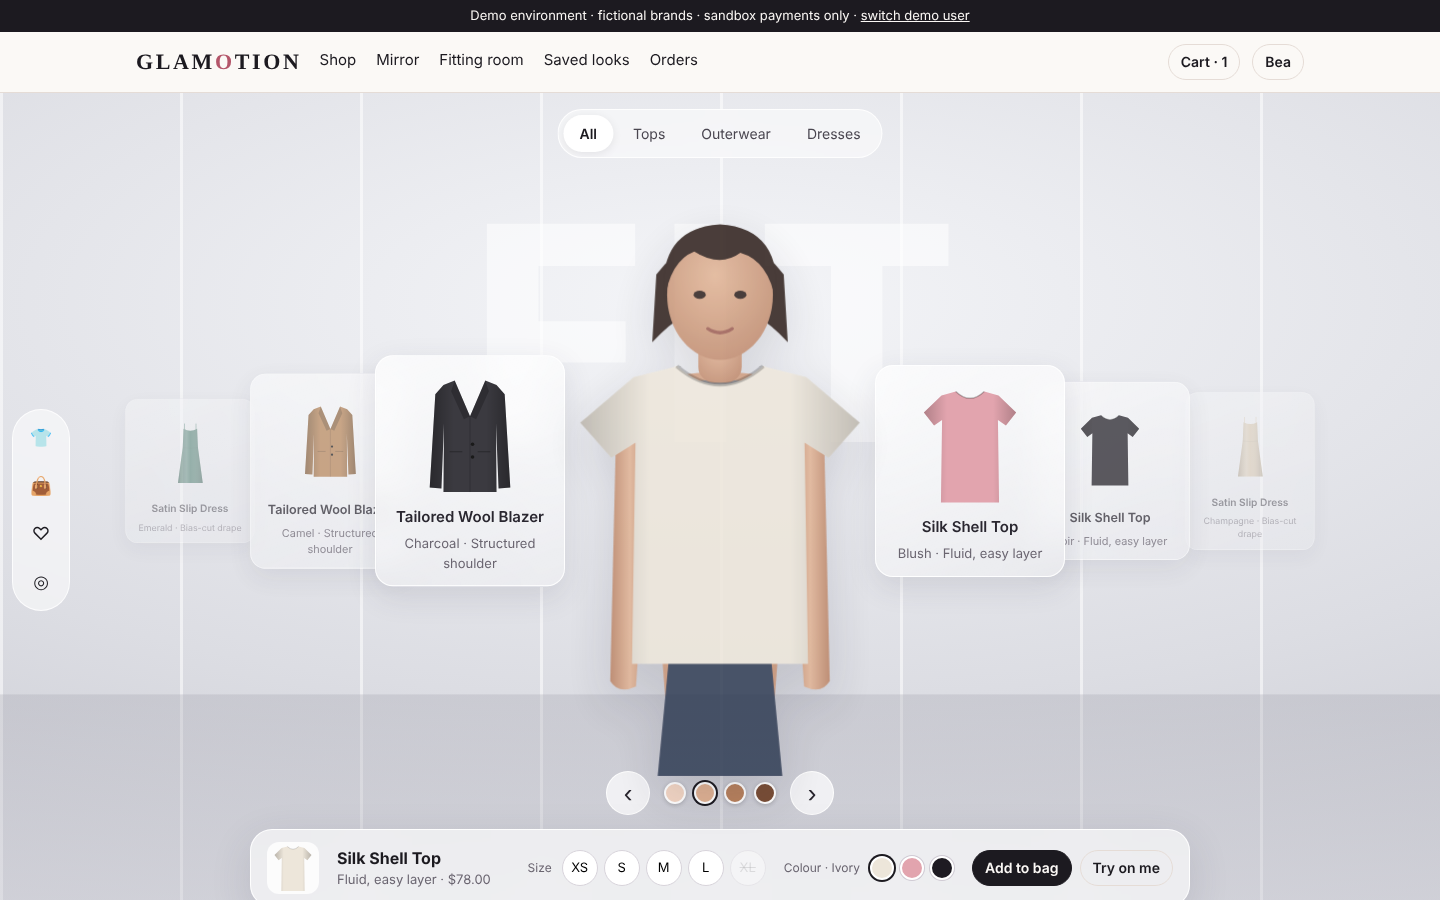
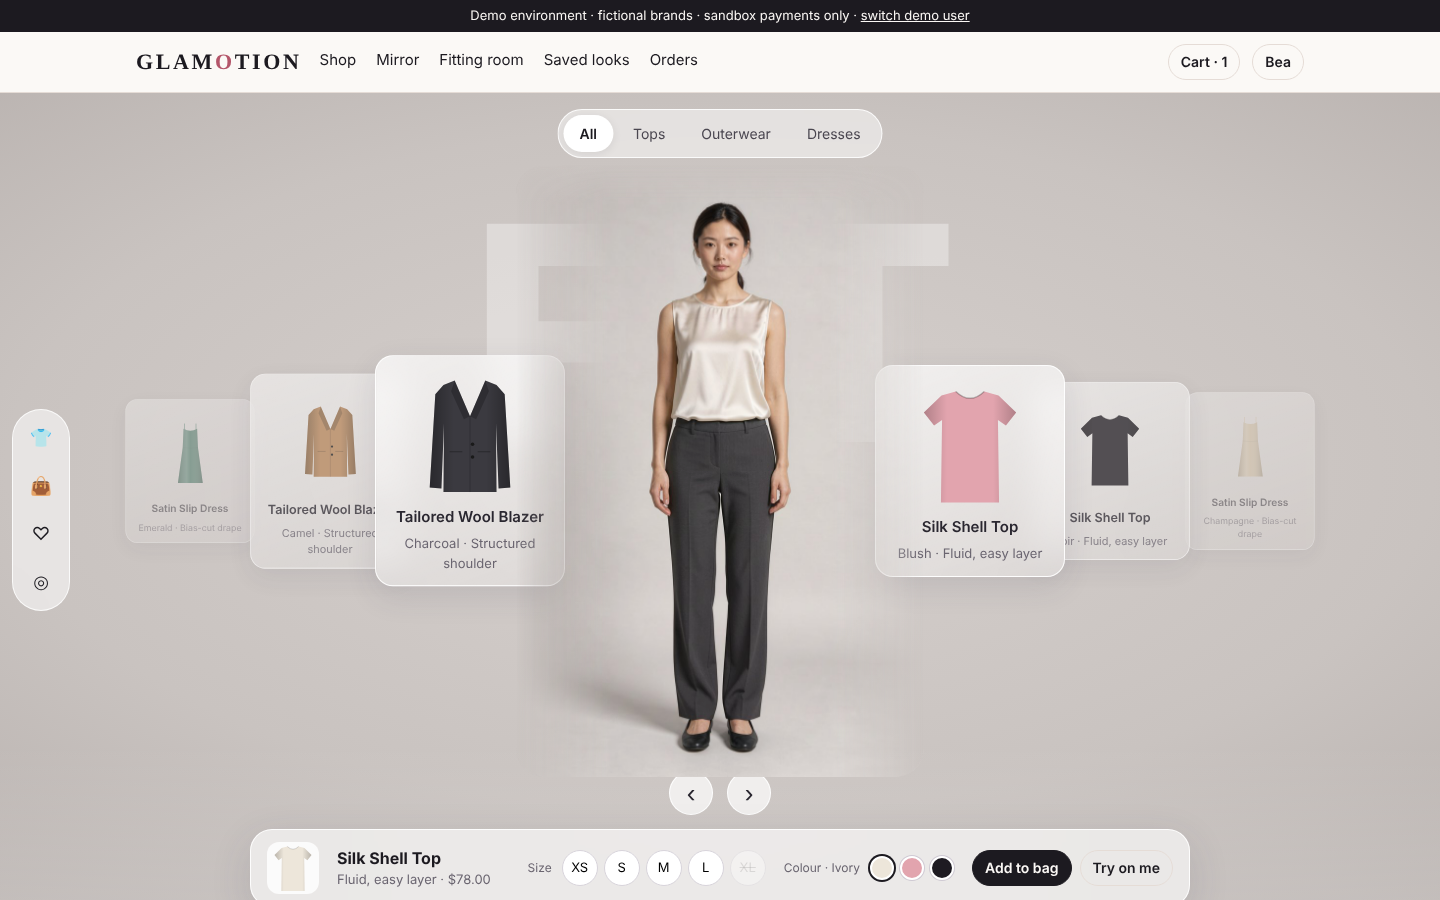
Fitting room: photographed model instead of illustrated figure
- Five AI-generated on-model photos of one fictional adult model
  (Higgsfield FLUX 3, identity-consistent via reference image); provenance
  recorded in public/models/lumiere-model-a/PROVENANCE.md
- pickOnModelPhoto(): exact outfit match, otherwise closest photo with a
  visible note (never a silent substitute); unit tested
- Room backdrop matched to the studio photography; skin-tone picker removed
- ADR-011; backlog AP-009/AP-010 updated; E2E asserts the shown photo

Claude-Session: https://claude.ai/code/session_016XAkFesfbQee2aGxaDXSHt

diff --git a/apps/web/src/components/FittingRoom.tsx b/apps/web/src/components/FittingRoom.tsx
@@ -3,7 +3,8 @@ import { useEffect, useMemo, useState } from "react";
 import Link from "next/link";
 import { compareSizes, type ApparelCategory } from "@glamotion/contracts";
 import { BUILTIN_ASSETS, GARMENT_ASSET } from "@glamotion/motion";
-import { outfitSvg, SKIN_TONES, type SkinTone } from "@glamotion/tryon";
+import { pickOnModelPhoto } from "@glamotion/tryon";
+import { MODEL_CREDIT, ON_MODEL_PHOTOS } from "./onModelPhotos";
 import type { GarmentProduct } from "./ApparelStudio";
 import { apiFetch, money } from "./client";
 
@@ -20,9 +21,10 @@ function thumb(category: ApparelCategory, hex: string, size = 110) {
 }
 
 /**
- * Spatial fitting room: the illustrated figure wears the selected outfit while
- * garment cards orbit left and right. Uses the same anchor-based fit as the
- * camera mirror; "Try on me" hands the selection to the on-device mirror.
+ * Spatial fitting room: a photographed model wears the selected outfit while
+ * garment cards orbit left and right. Photos are matched to the outfit; when a
+ * combination has no photo yet, the closest one is shown with a note.
+ * "Try on me" hands the selection to the on-device camera/photo mirror.
  */
 export function FittingRoom({ products, signedIn }: { products: GarmentProduct[]; signedIn: boolean }) {
   const [tab, setTab] = useState<Tab>("all");
@@ -34,7 +36,6 @@ export function FittingRoom({ products, signedIn }: { products: GarmentProduct[]
   const [worn, setWorn] = useState<{ base?: Worn; outer?: Worn }>(() => {
     return starter && starter.category !== "outerwear" ? { base: { productId: starter.productId, colour: starter.variants[0]!.colour } } : {};
   });
-  const [skin, setSkin] = useState<SkinTone>("honey");
   const [msg, setMsg] = useState<{ tone: "ok" | "error"; text: React.ReactNode } | null>(null);
   const byId = useMemo(() => new Map(products.map((p) => [p.productId, p])), [products]);
 
@@ -66,12 +67,8 @@ export function FittingRoom({ products, signedIn }: { products: GarmentProduct[]
     return () => window.removeEventListener("keydown", onKey);
   });
 
-  const layers = (["base", "outer"] as const).flatMap((slot) => {
-    const w = worn[slot]; const p = w && byId.get(w.productId);
-    const hex = p?.variants.find((v) => v.colour === w!.colour)?.hex;
-    return p && hex ? [{ category: p.category, hex }] : [];
-  });
-  const svg = useMemo(() => outfitSvg(layers, { skin, background: false, label: `Illustrated figure wearing ${layers.length} selected item${layers.length === 1 ? "" : "s"}` }), [JSON.stringify(layers), skin]); // eslint-disable-line react-hooks/exhaustive-deps
+  const item = (w?: Worn) => { const p = w && byId.get(w.productId); return p ? { slug: p.slug, colour: w!.colour, title: p.title } : undefined; };
+  const pick = pickOnModelPhoto(ON_MODEL_PHOTOS, { base: item(worn.base), outer: item(worn.outer) });
 
   if (!focus) return <p className="gm-muted">No clothing is published yet.</p>;
   const colours = [...new Map(focus.variants.map((v) => [v.colour, v.hex])).entries()];
@@ -110,7 +107,12 @@ export function FittingRoom({ products, signedIn }: { products: GarmentProduct[]
       </div>
       <div className="gm-fit-word" aria-hidden="true">FIT</div>
       <div className="gm-fit-stage">
-        <div className="gm-fit-figure" key={`${worn.base?.productId}${worn.base?.colour}${worn.outer?.productId}${worn.outer?.colour}${skin}`} dangerouslySetInnerHTML={{ __html: svg }} data-testid="fit-figure" />
+        {pick && (
+          <div className="gm-fit-figure" key={pick.photo.id} data-testid="fit-figure" data-photo={pick.photo.id} data-exact={pick.exact ? "true" : "false"}>
+            {/* eslint-disable-next-line @next/next/no-img-element */}
+            <img src={pick.photo.src} alt={pick.photo.alt} width={832} height={1248} decoding="async" />
+          </div>
+        )}
         {slots.map((o) => {
           const card = cards[(focusIndex + o + n * 3) % n]!;
           const d = Math.abs(o), sign = Math.sign(o);
@@ -131,11 +133,7 @@ export function FittingRoom({ products, signedIn }: { products: GarmentProduct[]
       </div>
       <div className="gm-fit-tones">
         <button className="gm-fit-arrow" onClick={() => step(-1)} aria-label="Previous item">‹</button>
-        <span role="radiogroup" aria-label="Figure skin tone" className="gm-row" style={{ gap: 8 }}>
-          {(Object.keys(SKIN_TONES) as SkinTone[]).map((t) => (
-            <button key={t} role="radio" aria-checked={skin === t} aria-label={`${t} tone`} className="gm-fit-tone" style={{ background: SKIN_TONES[t][0] }} onClick={() => setSkin(t)} />
-          ))}
-        </span>
+        {pick?.note && <span className="gm-fit-photo-note" role="status" data-testid="fit-photo-note">{pick.note}</span>}
         <button className="gm-fit-arrow" onClick={() => step(1)} aria-label="Next item">›</button>
       </div>
       <section className="gm-fit-bar" aria-label="Selected item">
@@ -164,7 +162,7 @@ export function FittingRoom({ products, signedIn }: { products: GarmentProduct[]
         </div>
       </section>
       {msg && <div className={`gm-alert gm-alert-${msg.tone} gm-fit-msg`} role="status">{msg.text}</div>}
-      <p className="gm-fit-note">Illustrated figure · 2D preview, not a fit prediction</p>
+      <p className="gm-fit-note">{MODEL_CREDIT} Model wears size S.</p>
     </div>
   );
 }

diff --git a/apps/web/src/app/globals.css b/apps/web/src/app/globals.css
@@ -129,10 +129,10 @@ footer.gm-footer { border-top: 1px solid var(--gm-border); padding: 32px 0; marg
 
 /* ---------------- Fitting room (spatial carousel) ---------------- */
 .gm-fit { position: relative; min-height: calc(100vh - 100px); overflow: hidden; color: #1C1A20;
+  /* Warm studio grey matched to the on-model photography backdrop. */
   background:
-    linear-gradient(180deg, rgba(255,255,255,0) 72%, rgba(170,170,180,.35) 72.2%, rgba(215,215,222,.6) 100%),
-    repeating-linear-gradient(90deg, rgba(255,255,255,.55) 0 3px, transparent 3px 180px),
-    radial-gradient(120% 80% at 50% 25%, #F4F5F8 0%, #DCDDE3 60%, #C9CAD2 100%);
+    linear-gradient(180deg, rgba(255,255,255,0) 78%, rgba(255,255,255,.18) 100%),
+    radial-gradient(90% 75% at 50% 45%, #D6D0CD 0%, #C9C3C0 55%, #B3ACA9 100%);
   padding: 72px 16px 150px; }
 .gm-fit-rail { position: absolute; left: 12px; top: 50%; transform: translateY(-50%); display: flex; flex-direction: column; gap: 8px; padding: 8px; border-radius: 999px;
   background: rgba(255,255,255,.55); border: 1px solid rgba(255,255,255,.8); backdrop-filter: blur(14px); z-index: 4; }
@@ -143,11 +143,14 @@ footer.gm-footer { border-top: 1px solid var(--gm-border); padding: 32px 0; marg
 .gm-fit-tab { border: 0; background: transparent; padding: 8px 16px; border-radius: 999px; font: inherit; font-size: 14px; color: #4A4650; cursor: pointer; white-space: nowrap; min-height: 36px; }
 .gm-fit-tab[aria-selected="true"] { background: #fff; color: #1C1A20; box-shadow: 0 2px 10px rgba(0,0,0,.08); font-weight: 600; }
 .gm-fit-word { position: absolute; top: 90px; left: 50%; transform: translateX(-50%); font-family: var(--gm-font-ui); font-weight: 800; font-size: clamp(120px, 22vw, 300px);
-  letter-spacing: .04em; color: rgba(255,255,255,.55); line-height: 1; pointer-events: none; user-select: none; }
+  letter-spacing: .04em; color: rgba(255,255,255,.35); line-height: 1; pointer-events: none; user-select: none; }
 .gm-fit-stage { position: relative; height: min(68vh, 640px); max-width: 1200px; margin: 0 auto; }
-.gm-fit-figure { position: absolute; left: 50%; bottom: 0; height: 100%; aspect-ratio: 600 / 900; transform: translateX(-50%); z-index: 20; pointer-events: none;
-  filter: drop-shadow(0 18px 24px rgba(40,40,60,.18)); animation: gm-fit-in var(--gm-dur) var(--gm-ease); }
-.gm-fit-figure svg { width: 100%; height: 100%; display: block; }
+.gm-fit-figure { position: absolute; left: 50%; bottom: 0; height: 100%; aspect-ratio: 2 / 3; transform: translateX(-50%); z-index: 20; pointer-events: none;
+  animation: gm-fit-in var(--gm-dur) var(--gm-ease); }
+.gm-fit-figure img { width: 100%; height: 100%; display: block; object-fit: cover; border-radius: 28px;
+  -webkit-mask-image: linear-gradient(90deg, transparent 0, #000 22%, #000 78%, transparent 100%), linear-gradient(180deg, transparent 0, #000 6%, #000 100%);
+  -webkit-mask-composite: source-in; mask-image: linear-gradient(90deg, transparent 0, #000 22%, #000 78%, transparent 100%), linear-gradient(180deg, transparent 0, #000 6%, #000 100%); mask-composite: intersect; }
+.gm-fit-photo-note { max-width: 420px; font-size: 13px; padding: 6px 12px; border-radius: 12px; background: rgba(255,255,255,.75); color: #4A4650; text-align: center; }
 @keyframes gm-fit-in { from { opacity: .35; transform: translateX(-50%) scale(.985); } to { opacity: 1; transform: translateX(-50%) scale(1); } }
 .gm-fit-card { position: absolute; top: 50%; left: 50%; z-index: 1; width: 190px; padding: 14px 12px 12px; border-radius: 18px; cursor: pointer;
   display: flex; flex-direction: column; align-items: center; gap: 6px; font: inherit; color: #2A2730; text-align: center;

diff --git a/tests/e2e/apparel.spec.ts b/tests/e2e/apparel.spec.ts
@@ -43,16 +43,18 @@ test("cloud try-on endpoint refuses without a configured provider and never acce
   expect(anon.status()).toBe(401);
 });
 
-test("fitting room: spatial carousel dresses the figure, layers outerwear, adds the chosen size to the bag", async ({ page }) => {
+test("fitting room: photographed model changes outfit from the carousel, layers outerwear, adds the chosen size to the bag", async ({ page }) => {
   await signIn(page, "bea");
   await page.goto("/fitting-room");
   const figure = page.getByTestId("fit-figure");
-  await expect(figure.locator('[data-layer="top"]')).toHaveCount(1);
+  await expect(figure).toHaveAttribute("data-photo", "top-ivory");
+  await expect(figure.locator("img")).toHaveJSProperty("complete", true);
+  expect(await figure.locator("img").evaluate((i: HTMLImageElement) => i.naturalWidth)).toBeGreaterThan(500);
   await shot(page, "16-fitting-room");
   await page.getByTestId("fit-tab-outerwear").click();
   await page.getByTestId("fit-card-tailored-wool-blazer-Charcoal").click();
-  await expect(figure.locator('[data-layer="outerwear"]')).toHaveCount(1);
-  await expect(figure.locator('[data-layer="top"]')).toHaveCount(1); // blazer layers over the top
+  await expect(figure).toHaveAttribute("data-photo", "blazer-charcoal");
+  await expect(figure).toHaveAttribute("data-exact", "true");
   await expect(page.getByTestId("fit-title")).toHaveText("Tailored Wool Blazer");
   await page.getByTestId("fit-size-M").click();
   await page.getByTestId("fit-add").click();
@@ -60,8 +62,9 @@ test("fitting room: spatial carousel dresses the figure, layers outerwear, adds 
   await shot(page, "17-fitting-room-layered");
   await page.getByTestId("fit-tab-dress").click();
   await page.getByTestId("fit-card-satin-slip-dress-Emerald").click();
-  await expect(figure.locator('[data-layer="dress"]')).toHaveCount(1);
-  await expect(figure.locator('[data-layer="outerwear"]')).toHaveCount(0); // a dress is worn alone
-  await page.keyboard.press("ArrowRight");
-  await expect(page.getByTestId("fit-title")).toHaveText("Satin Slip Dress");
+  await expect(figure).toHaveAttribute("data-photo", "dress-emerald");
+  // A colour without its own photo falls back to the closest photo with an honest note.
+  await page.getByTestId("fit-colour-Champagne").click();
+  await expect(figure).toHaveAttribute("data-exact", "false");
+  await expect(page.getByTestId("fit-photo-note")).toContainText("no Champagne photo yet");
 });

diff --git a/packages/tryon/src/on-model.ts b/packages/tryon/src/on-model.ts
@@ -1,0 +1,35 @@
+/**
+ * Picks the best on-model photograph for an outfit. Photos are pre-produced
+ * (brand shoots or AI-generated fictional models) and tagged with what the
+ * model wears. When no exact photo exists, the closest one is returned with
+ * an honest note saying what differs — never a silent substitution.
+ */
+export interface WornItem { slug: string; colour: string; title?: string }
+export interface OnModelPhoto { id: string; src: string; alt: string; base?: WornItem; outer?: WornItem }
+export interface Outfit { base?: WornItem; outer?: WornItem }
+
+function score(p: OnModelPhoto, o: Outfit): number {
+  let s = 0;
+  for (const slot of ["base", "outer"] as const) {
+    const want = o[slot], have = p[slot];
+    if (want && have) s += (want.slug === have.slug ? 4 : 0) + (want.slug === have.slug && want.colour === have.colour ? 2 : 0);
+    else if (want && !have) s -= 3;
+    else if (!want && have) s -= 5;
+  }
+  return s;
+}
+
+export function pickOnModelPhoto(photos: readonly OnModelPhoto[], outfit: Outfit): { photo: OnModelPhoto; exact: boolean; note: string | null } | null {
+  if (photos.length === 0) return null;
+  const best = [...photos].sort((a, b) => score(b, outfit) - score(a, outfit) || a.id.localeCompare(b.id))[0]!;
+  const diffs: string[] = [];
+  for (const slot of ["base", "outer"] as const) {
+    const want = outfit[slot], have = best[slot];
+    const name = (w: WornItem) => w.title ?? w.slug;
+    if (want && have && want.slug === have.slug && want.colour !== have.colour) diffs.push(`${name(want)} shown in ${have.colour} (no ${want.colour} photo yet)`);
+    else if (want && have && want.slug !== have.slug) diffs.push(`shown with ${name(have)} in ${have.colour} instead of ${name(want)}`);
+    else if (want && !have) diffs.push(`${name(want)} not shown — no photo of this combination yet`);
+    else if (!want && have) diffs.push(`also wearing ${name(have)} in ${have.colour}`);
+  }
+  return { photo: best, exact: diffs.length === 0, note: diffs.length ? `Photo: ${diffs.join("; ")}.` : null };
+}

diff --git a/apps/web/src/components/onModelPhotos.ts b/apps/web/src/components/onModelPhotos.ts
@@ -1,0 +1,19 @@
+import type { OnModelPhoto } from "@glamotion/tryon";
+
+/**
+ * On-model photography for the demo label. These are AI-generated images of
+ * a fictional adult model (Higgsfield · FLUX 3, generated from the project
+ * owner's account for this demo) — not a real person. Each entry records
+ * exactly what the model is wearing so the fitting room never mislabels it.
+ * Production replaces these with brand-supplied, licence-recorded shoots (AP-010).
+ */
+export const MODEL_CREDIT = "Fictional AI-generated model, created for this demo — not a real person.";
+
+const base = "/models/lumiere-model-a";
+export const ON_MODEL_PHOTOS: OnModelPhoto[] = [
+  { id: "top-ivory", src: `${base}/top-ivory.jpg`, alt: "Model wearing the Silk Shell Top in Ivory with charcoal trousers", base: { slug: "silk-shell-top", colour: "Ivory", title: "Silk Shell Top" } },
+  { id: "top-blush", src: `${base}/top-blush.jpg`, alt: "Model wearing the Silk Shell Top in Blush with charcoal trousers", base: { slug: "silk-shell-top", colour: "Blush", title: "Silk Shell Top" } },
+  { id: "blazer-charcoal", src: `${base}/blazer-charcoal.jpg`, alt: "Model wearing the Tailored Wool Blazer in Charcoal over the Ivory Silk Shell Top", base: { slug: "silk-shell-top", colour: "Ivory", title: "Silk Shell Top" }, outer: { slug: "tailored-wool-blazer", colour: "Charcoal", title: "Tailored Wool Blazer" } },
+  { id: "blazer-camel", src: `${base}/blazer-camel.jpg`, alt: "Model wearing the Tailored Wool Blazer in Camel over the Ivory Silk Shell Top", base: { slug: "silk-shell-top", colour: "Ivory", title: "Silk Shell Top" }, outer: { slug: "tailored-wool-blazer", colour: "Camel", title: "Tailored Wool Blazer" } },
+  { id: "dress-emerald", src: `${base}/dress-emerald.jpg`, alt: "Model wearing the Satin Slip Dress in Emerald", base: { slug: "satin-slip-dress", colour: "Emerald", title: "Satin Slip Dress" } },
+];

diff --git a/packages/tryon/src/apparel.test.ts b/packages/tryon/src/apparel.test.ts
@@ -85,3 +85,28 @@ describe("outfitSvg (fitting room renderer)", () => {
     expect(s).not.toContain("<b>");
   });
 });
+
+import { pickOnModelPhoto, type OnModelPhoto } from "./on-model";
+describe("pickOnModelPhoto", () => {
+  const photos: OnModelPhoto[] = [
+    { id: "top-ivory", src: "a", alt: "", base: { slug: "top", colour: "Ivory" } },
+    { id: "top-blush", src: "b", alt: "", base: { slug: "top", colour: "Blush" } },
+    { id: "blazer-charcoal", src: "c", alt: "", base: { slug: "top", colour: "Ivory" }, outer: { slug: "blazer", colour: "Charcoal" } },
+    { id: "dress-emerald", src: "d", alt: "", base: { slug: "dress", colour: "Emerald" } },
+  ];
+  it("returns exact matches without a note", () => {
+    expect(pickOnModelPhoto(photos, { base: { slug: "top", colour: "Blush" } })).toMatchObject({ exact: true, note: null, photo: { id: "top-blush" } });
+    expect(pickOnModelPhoto(photos, { base: { slug: "top", colour: "Ivory" }, outer: { slug: "blazer", colour: "Charcoal" } })!.photo.id).toBe("blazer-charcoal");
+  });
+  it("falls back to the closest photo and says what differs", () => {
+    const r = pickOnModelPhoto(photos, { base: { slug: "top", colour: "Noir", title: "Silk Shell Top" } })!;
+    expect(r.exact).toBe(false);
+    expect(r.note).toContain("shown in");
+    const layered = pickOnModelPhoto(photos, { base: { slug: "top", colour: "Blush" }, outer: { slug: "blazer", colour: "Charcoal" } })!;
+    expect(layered.photo.id).toBe("blazer-charcoal");
+    expect(layered.note).toContain("Blush");
+  });
+  it("prefers an un-layered photo when no outer layer is worn", () => {
+    expect(pickOnModelPhoto(photos, { base: { slug: "top", colour: "Ivory" } })!.photo.id).toBe("top-ivory");
+  });
+});

diff --git a/packages/tryon/src/index.ts b/packages/tryon/src/index.ts
@@ -8,3 +8,4 @@ export * from "./demo-face";
 export * from "./apparel";
 export * from "./demo-body";
 export * from "./outfit";
+export * from "./on-model";

diff --git a/backlog/status.md b/backlog/status.md
@@ -1,17 +1,17 @@
 # Status — sprint 1 (vertical slice) + clothing addendum
 
 ## Clothing addendum (ADR-010)
-Clothing catalog (tops, outerwear, dresses; colour × size), an on-device **clothes mirror** (demo figure, photo upload, live camera — garment overlaid on shoulders/hips via MediaPipe Pose), outfits in saved looks, sizes through cart and orders, and an **opt-in AI realistic preview** flow that is fully guarded but has no vendor configured (it says so and uploads nothing). Tickets AP-001…AP-010. **Fitting room** (`/fitting-room`): spatial carousel of garment cards orbiting the illustrated figure, category tabs, size/colour bar, layering (blazer over top; dress alone), four figure tones, hand-off to the camera/photo mirror.
+Clothing catalog (tops, outerwear, dresses; colour × size), an on-device **clothes mirror** (demo figure, photo upload, live camera — garment overlaid on shoulders/hips via MediaPipe Pose), outfits in saved looks, sizes through cart and orders, and an **opt-in AI realistic preview** flow that is fully guarded but has no vendor configured (it says so and uploads nothing). Tickets AP-001…AP-010. **Fitting room** (`/fitting-room`): a photographed fictional model (5 AI-generated on-model photos) wears the selected outfit while garment cards orbit left/right; category tabs, size/colour bar, layering (blazer over top; dress alone); combinations without a photo show the closest one with a note; hand-off to the camera/photo mirror.
 
 
-**Tickets:** 87 total (77 spec + 10 clothing) · 53 DONE · 12 PARTIAL · 22 TODO (machine-readable: `tasks.csv`).
+**Tickets:** 87 total (77 spec + 10 clothing) · 53 DONE · 13 PARTIAL · 21 TODO (machine-readable: `tasks.csv`).
 P0 still TODO: F-005 Supabase Auth, F-011 Postgres store, DM-009 static design canvas, OP-005 rate limiting.
 
 ## Evidence (commands run locally on this commit)
 | Gate | Command | Result |
 |---|---|---|
 | Typecheck | `pnpm typecheck` | pass (packages, worker, web) |
-| Unit/integration | `pnpm test` | 76 passed, 12 skipped (RLS suite needs DB) |
+| Unit/integration | `pnpm test` | 79 passed, 12 skipped (RLS suite needs DB) |
 | SQL + RLS | `pnpm test:rls` | 4 migrations applied on Postgres 16; 12/12 tests passed |
 | Production build | `pnpm build` | pass (Next.js 15.5.29) |
 | E2E | `pnpm test:e2e` | 14/14 passed (web + worker started by Playwright) |

diff --git a/docs/DECISIONS.md b/docs/DECISIONS.md
@@ -31,6 +31,9 @@ Non-members receive 404 for another tenant's resources (pages and APIs) to avoid
 **Decision.** (1) Catalog: apparel categories `top | outerwear | dress`; colour reuses `shadeName/hex`; `sizeLabel` per variant (one SKU per colour × size); size is snapshotted on order lines (migration 0004). (2) Default try-on is on-device: MediaPipe Pose Landmarker finds shoulders/hips; a 3-point affine maps a garment template's anchors (shoulder seams + mid-hip) onto the body; hips are estimated from shoulder width when out of frame (webcam). Templates are original vector garments tinted per colour — real product cut-outs need a background-removal + anchor-annotation pipeline (AP-006). (3) Optional realistic preview goes through the `ApparelTryOnProvider` port: availability is checked before any upload; explicit per-request consent; signed-in users; 5/hour; magic-byte validation; in-memory only; consent + audit recorded without the image. No vendor ships: the default provider returns `FEATURE_DISABLED`.
 **Consequences.** The overlay is a 2D illustration: no cloth simulation, folds, arm occlusion or fit prediction; UI copy says so and never claims fit. Generative try-on needs a vendor decision (data-processing terms, retention, cost) and legal review before enabling. Size recommendation from body measurements is out of scope (it would infer body shape).
 
+## ADR-011 Fitting room uses photographed models, not illustrated figures
+**Decision (product owner, 2026-11-18).** The fitting room shows real-looking photography of a model rather than an illustrated/3D figure. Demo photos are AI-generated images of a fictional adult model with recorded provenance (`apps/web/public/models/*/PROVENANCE.md`); production uses brand shoots. Outfit → photo matching is explicit (`pickOnModelPhoto`); a missing combination shows the closest photo with a visible note rather than a silent substitute. The camera/photo mirror (ADR-010) is unchanged: it overlays garments on the shopper's own image on-device.
+
 ## ADR-009 Open decisions (defaults in use)
 | Decision | Default now |
 |---|---|

diff --git a/apps/web/public/models/lumiere-model-a/PROVENANCE.md b/apps/web/public/models/lumiere-model-a/PROVENANCE.md
@@ -1,0 +1,18 @@
+# On-model photography — "Lumière model A" (demo)
+
+AI-generated images of a **fictional adult model** (not a real or identifiable person),
+generated 2026-11-17/18 from the project owner's Higgsfield account with FLUX 3 (`flux_3_image`, 1k, 2:3).
+`top-ivory` was generated from a text prompt; the other four used it as the identity reference.
+Re-encoded to JPEG (metadata stripped). Used only as demo product imagery for the fictional
+"Lumière Atelier" label. Replace with brand-supplied, licence-recorded shoots before launch (AP-010).
+
+| File | Outfit | Higgsfield job |
+|---|---|---|
+| top-ivory.jpg | Silk Shell Top · Ivory | 0d8bad63-bb16-4208-b5e6-212ba200ca34 |
+| top-blush.jpg | Silk Shell Top · Blush | d6c6fecd-d2d0-403d-886b-7cf8c60ba0e6 |
+| blazer-charcoal.jpg | Tailored Wool Blazer · Charcoal over Ivory top | 05ebbf9e-7135-495d-9baf-e11f2d3f259d |
+| blazer-camel.jpg | Tailored Wool Blazer · Camel over Ivory top | 3505ae61-c068-4223-849c-022c5fefbcba |
+| dress-emerald.jpg | Satin Slip Dress · Emerald | 57e15d72-a4f9-4d37-8d58-5255b0cbdb64 |
+
+Not yet photographed: Silk Shell Top · Noir, Satin Slip Dress · Champagne, blazer over Blush/Noir tops.
+The fitting room shows the closest photo with a note for these.
